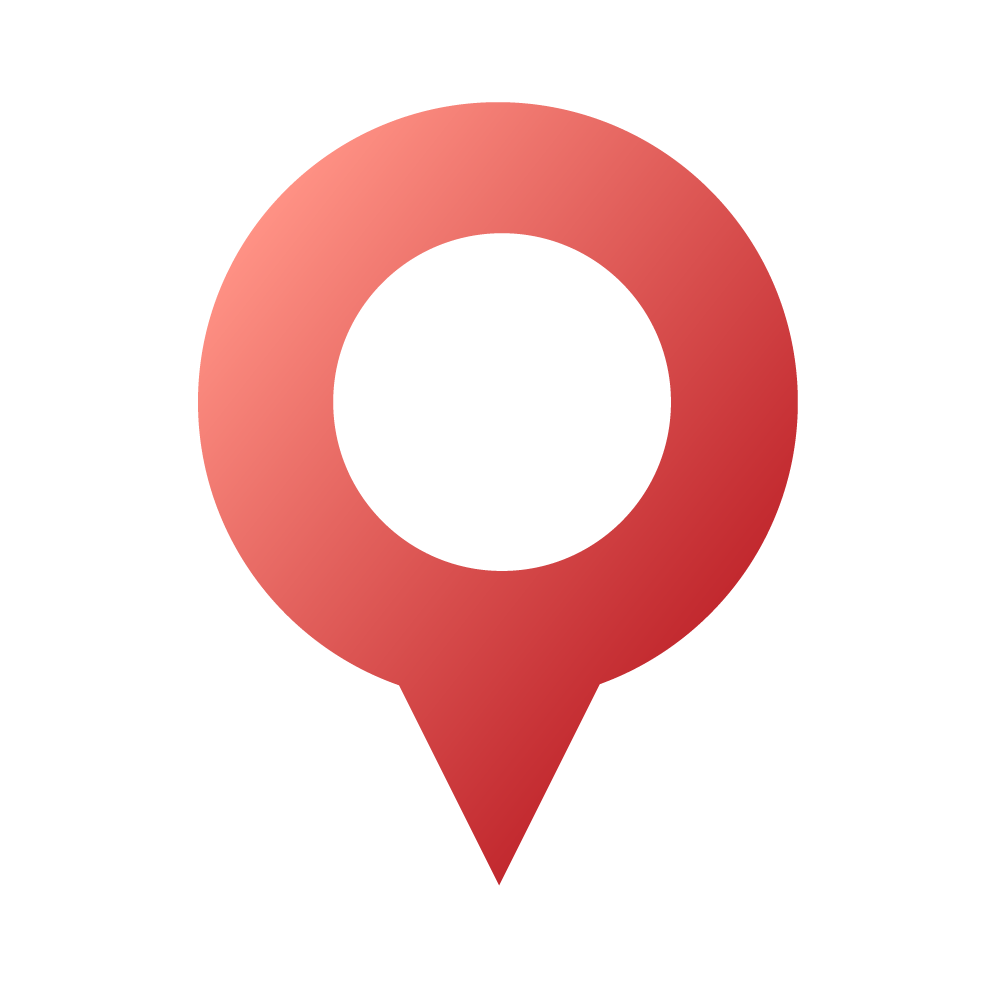
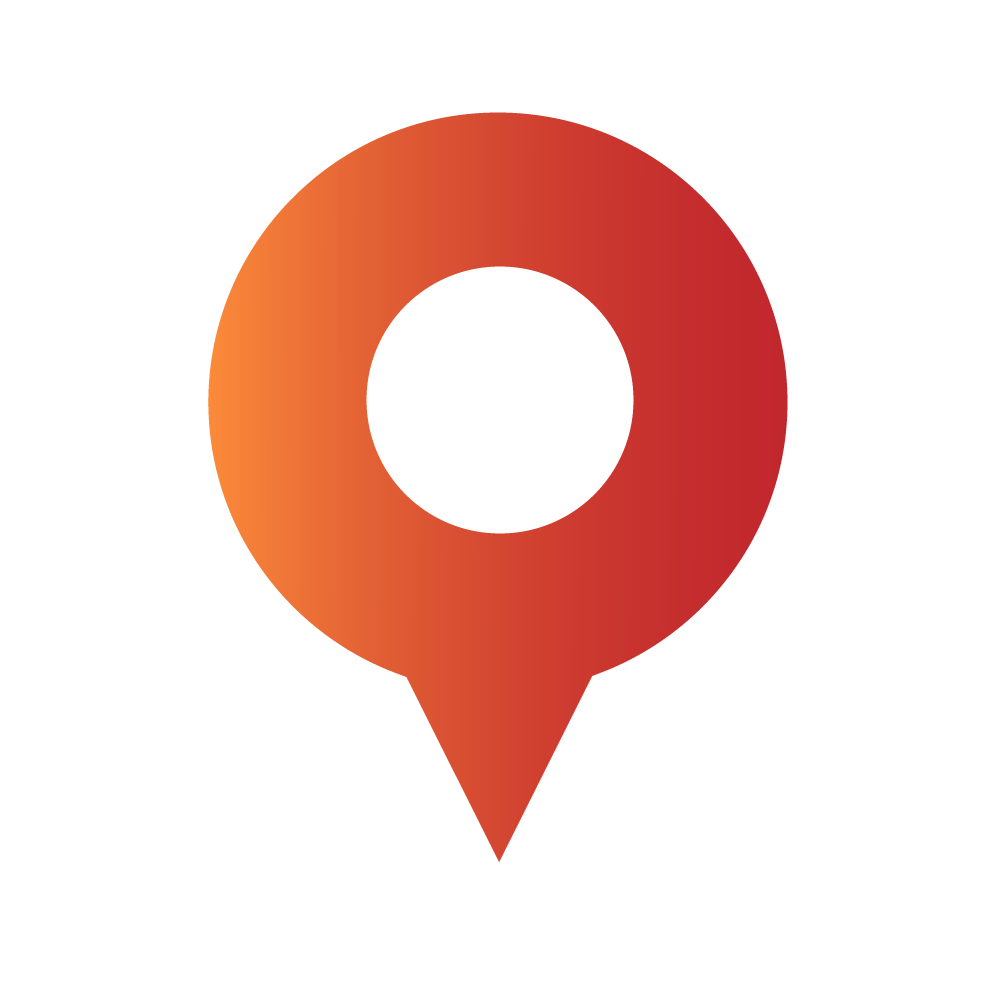
marqueur

diff --git a/map.js b/map.js
@@ -26,18 +26,23 @@ const osmLayer = L.tileLayer('http://{s}.tile.osm.org/{z}/{x}/{y}.png', {
 // ajout du marqueur personnalisé
 
 let iconePerso = L.icon({
-    iconUrl: '',
-    iconSize:[28, 41]
+    iconUrl: 'https://github.com/theogerritsen/AR_project/blob/main/assets/marker1.png?raw=true',
+    iconSize:[50, 50]
 });
 
 
 // ajout des arrets
 
-let arrets = new L.geoJson(lieux, {
-    onEachFeature: onEachFeature,
+let arrets = new L.geoJson(arret, {
     pointToLayer: function(feature, latlng){
         return L.marker(latlng, {icon: iconePerso});
     }
+}).addTo(mymap);
+
+L.geoJSON(sentier, {
+    "color": "#3081ff",
+    "weight": 7,
+    "dashArray": [0, 13]
 }).addTo(mymap);
 
 osmLayer.addTo(mymap);

diff --git a/map.html b/map.html
@@ -14,7 +14,8 @@
     </head>
     <body>
         <div id="map"></div>
-        <script src="map.js"></script>
         <script src="data/chemin.js"></script>
+        <script src="data/arrets.js"></script>
+        <script src="map.js"></script>
     </body>
 </html>

diff --git a/data/arrets.js b/data/arrets.js
@@ -1,4 +1,4 @@
-var lieux = {
+var arret = {
     "type": "FeatureCollection",
     "name": "arrets",
     "crs": { "type": "name", "properties": { "name": "urn:ogc:def:crs:OGC:1.3:CRS84" } },

diff --git a/data/chemin.js b/data/chemin.js
@@ -71,8 +71,3 @@ var sentier = {
     ]
 }
 
-L.geoJSON(sentier, {
-    "color": "#3081ff",
-    "weight": 7,
-    "dashArray": [0, 13]
-}).addTo(mymap);
